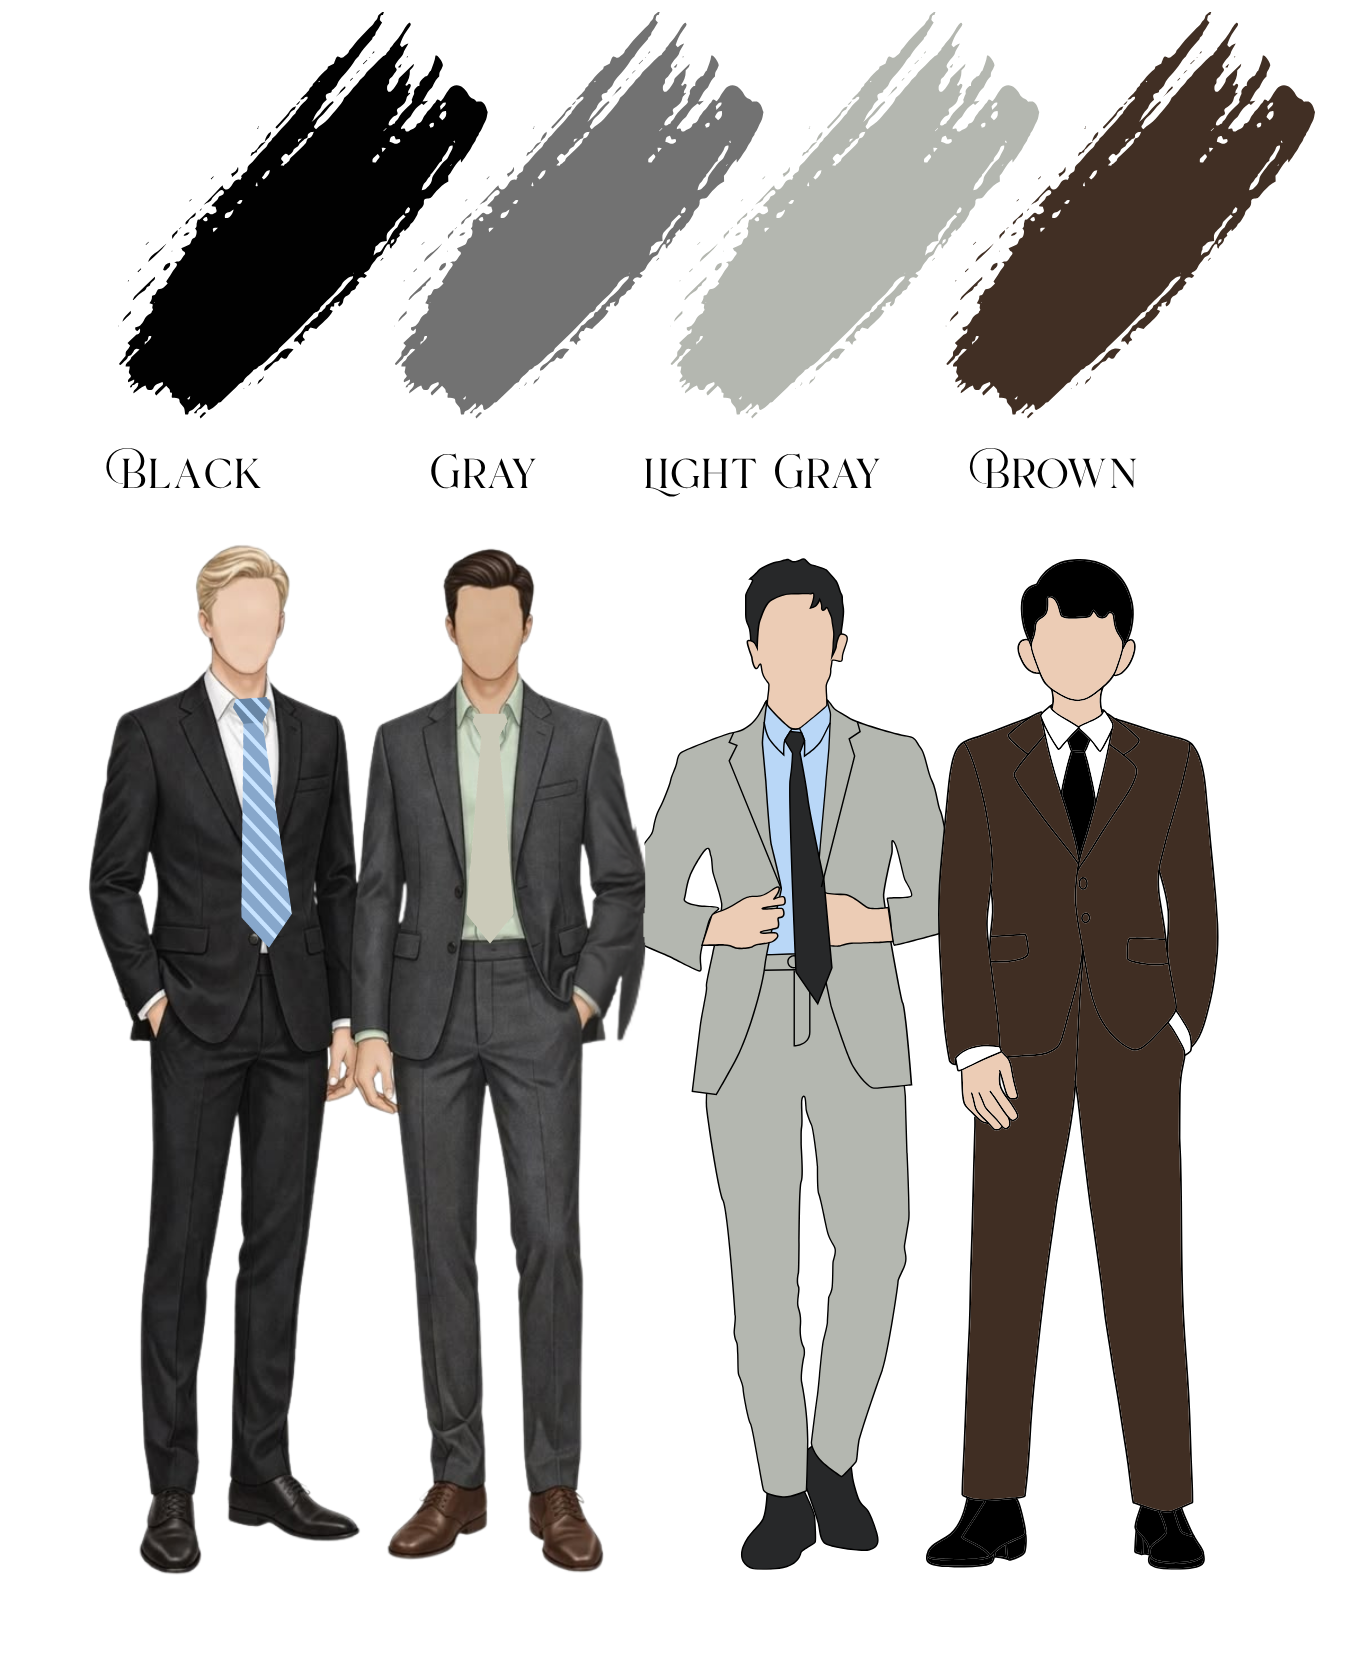
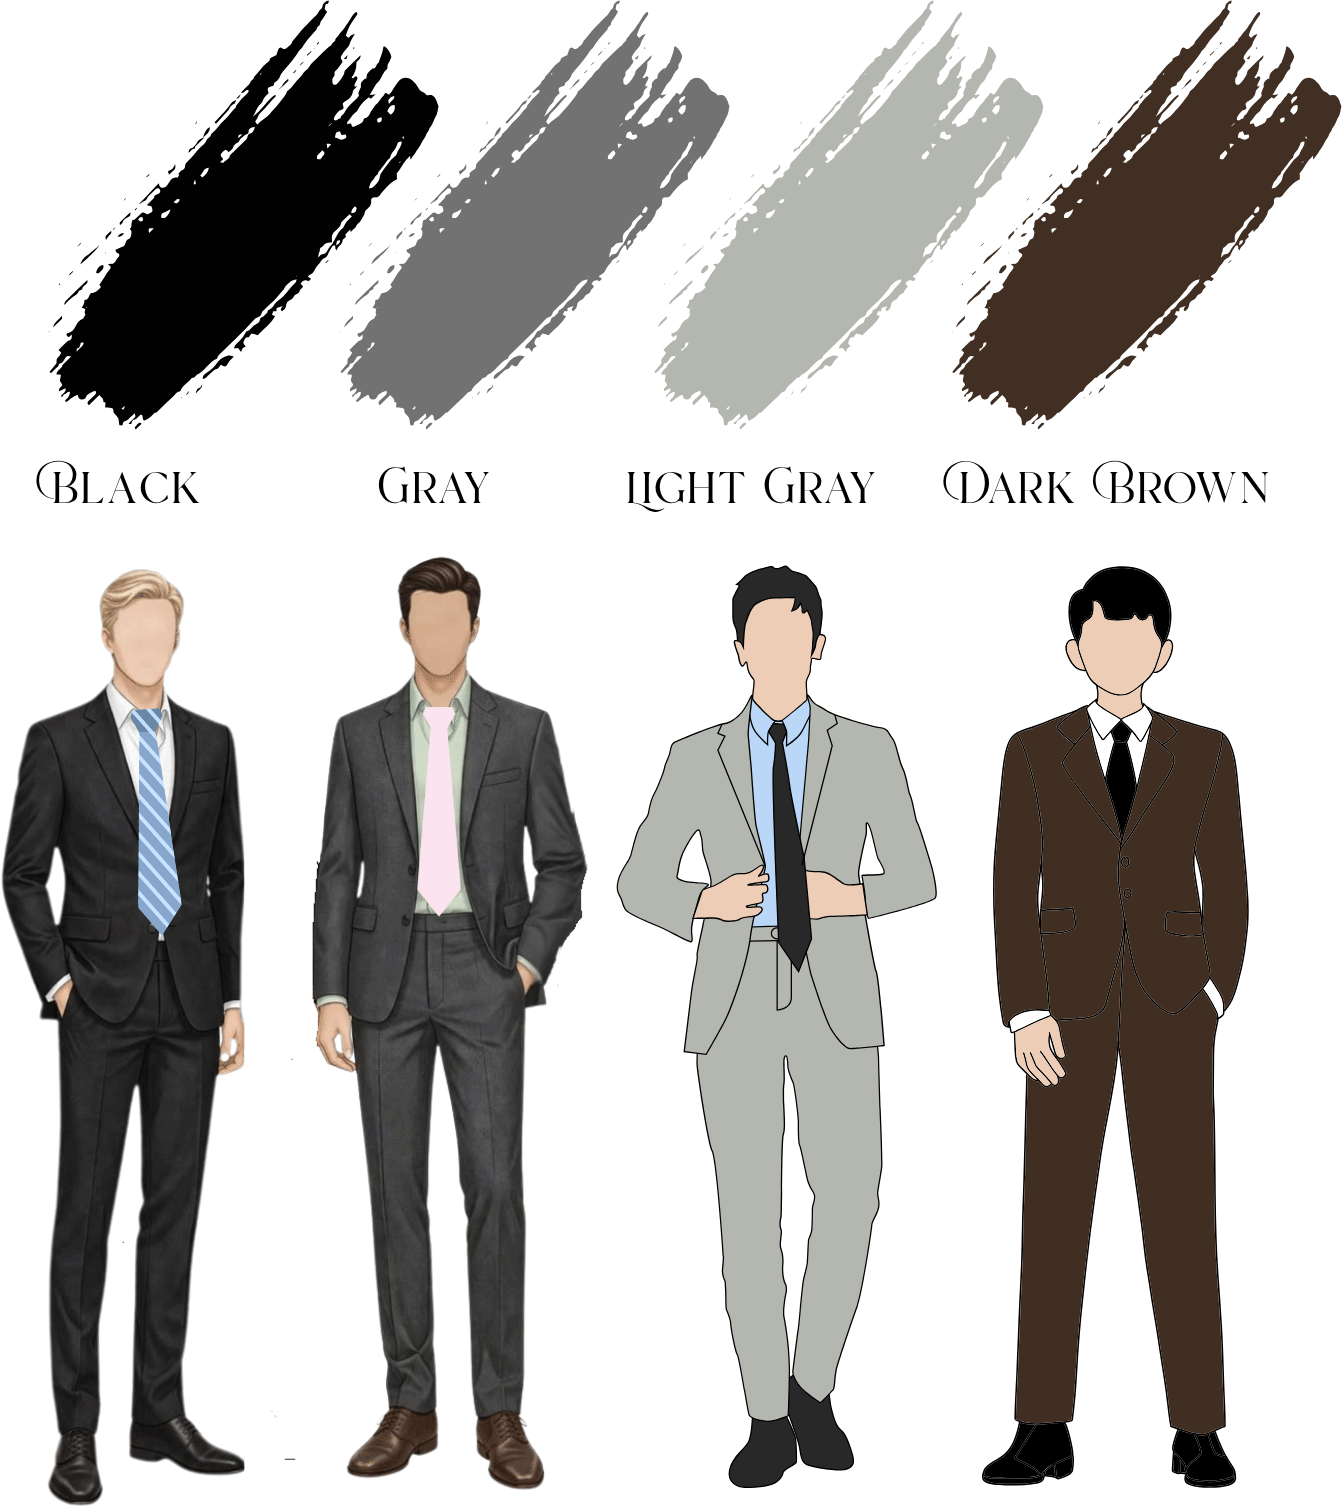
Add Aposaga, updated dresscode

diff --git a/js/pages/details.js b/js/pages/details.js
@@ -77,8 +77,8 @@ Annabelle Events Place, a 5-minute drive from the church located at Purok 7, Jal
               <img class="attire-panel__image" src="assets/imgs/details/gentlemen.png" alt="Gentlemen's wedding attire inspiration">
               <div class="attire-panel__copy">
                 <h3 id="attire-title" class="font-new-icon scroll-animate slide-right">For the Gentlemen</h3>
-                <p class="font-seasons uppercase scroll-animate">Gentlemen are requested to wear a formal suit in Black, Gray, light Gray, or Brown, paired with dress shoes.</p>
-                <p class="font-monotype-corsiva scroll-animate">To help bring our wedding palette to life, we warmly encourage the gentlemen to incorporate a pastel-colored dress shirt or necktie into their attire!</p>
+                <p class="font-seasons uppercase scroll-animate">Gentlemen are requested to wear a formal suit in Black, Gray, light Gray, or Dark Brown, paired with dress shoes.</p>
+                <p class="font-monotype-corsiva scroll-animate">To help bring our wedding palette to life, we warmly encourage the gentlemen to incorporate a pastel-colored dress shirt OR a pastel necktie (paired with a classic white dress shirt).</p>
                 <img class="details-separator--gentlemen" src="assets/imgs/design/separator_1.png" alt="" aria-hidden="true" loading="lazy" decoding="async">
               </div>
             </article>
@@ -136,6 +136,7 @@ Annabelle Events Place, a 5-minute drive from the church located at Purok 7, Jal
                   <li>Mrs. Carmencita Doctolero</li>
                   <li>Mrs. Ruby Reyes</li>
                   <li>Mrs. Imelda Zamora</li>
+                  <li>Mrs. Ann Aposaga</li>
                   <li>Mrs. Vilma Sta Maria</li>
                   <li>Mrs. Ana Maria De Castro</li>
                   <li>Mrs. Annabelle Estrella</li>
@@ -151,6 +152,7 @@ Annabelle Events Place, a 5-minute drive from the church located at Purok 7, Jal
                   <li>Mr. Joey Doctolero</li>
                   <li>Mr. Christopher Reyes</li>
                   <li>Mr. Galileo Zamora</li>
+                  <li>Mr. Radie Aposaga</li>
                 </ul>
               </article>
             </div>
